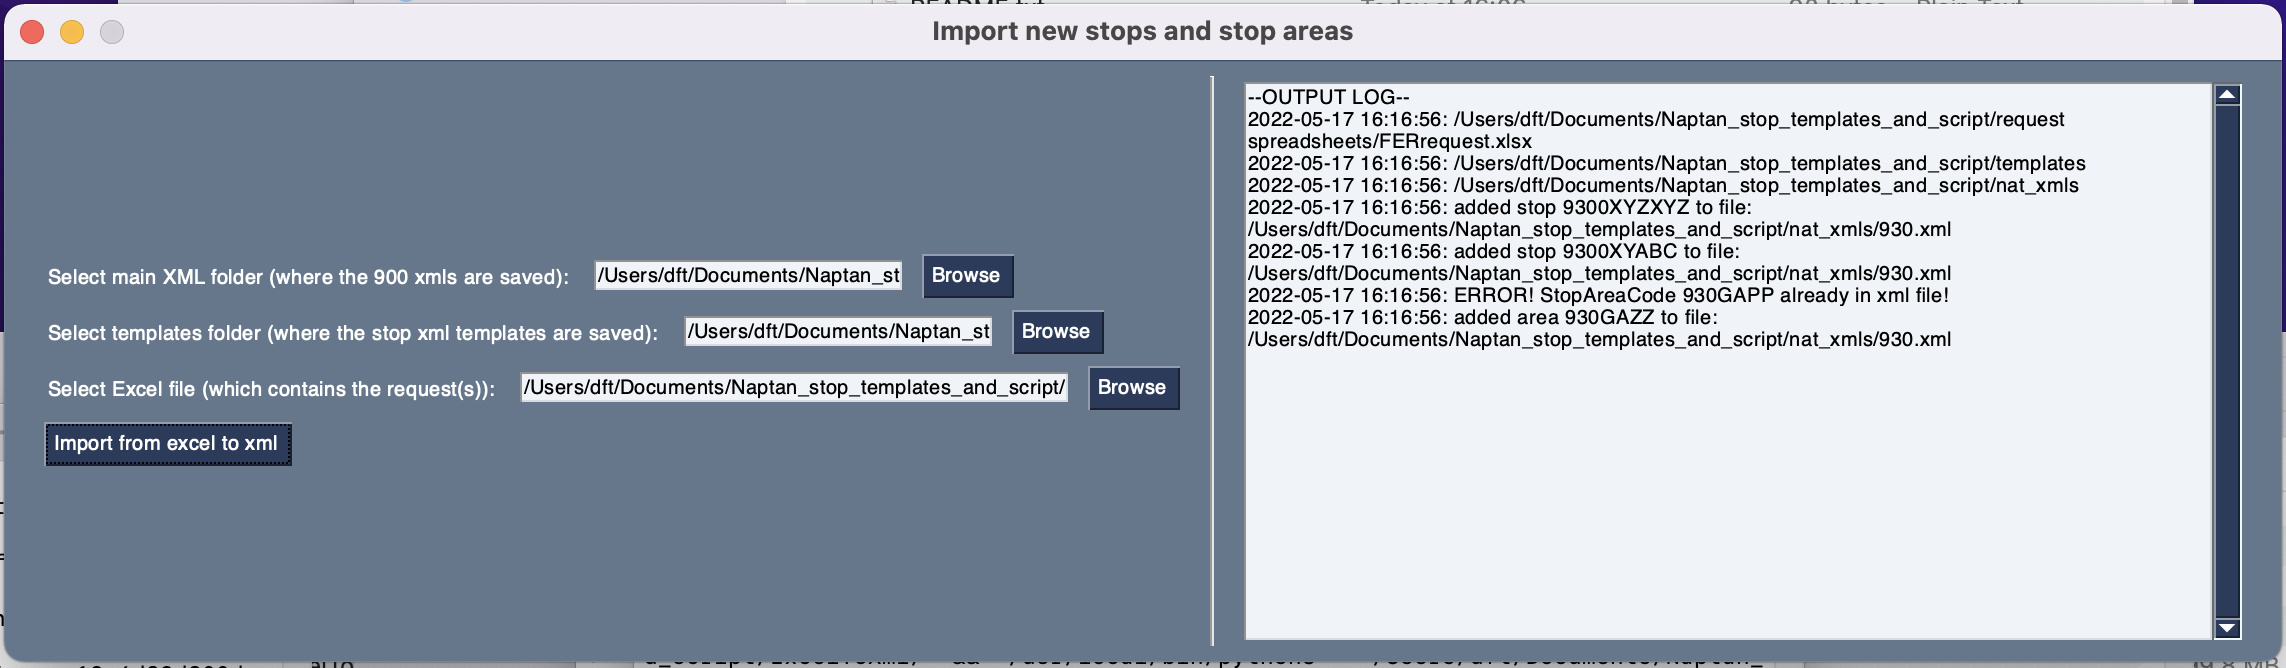
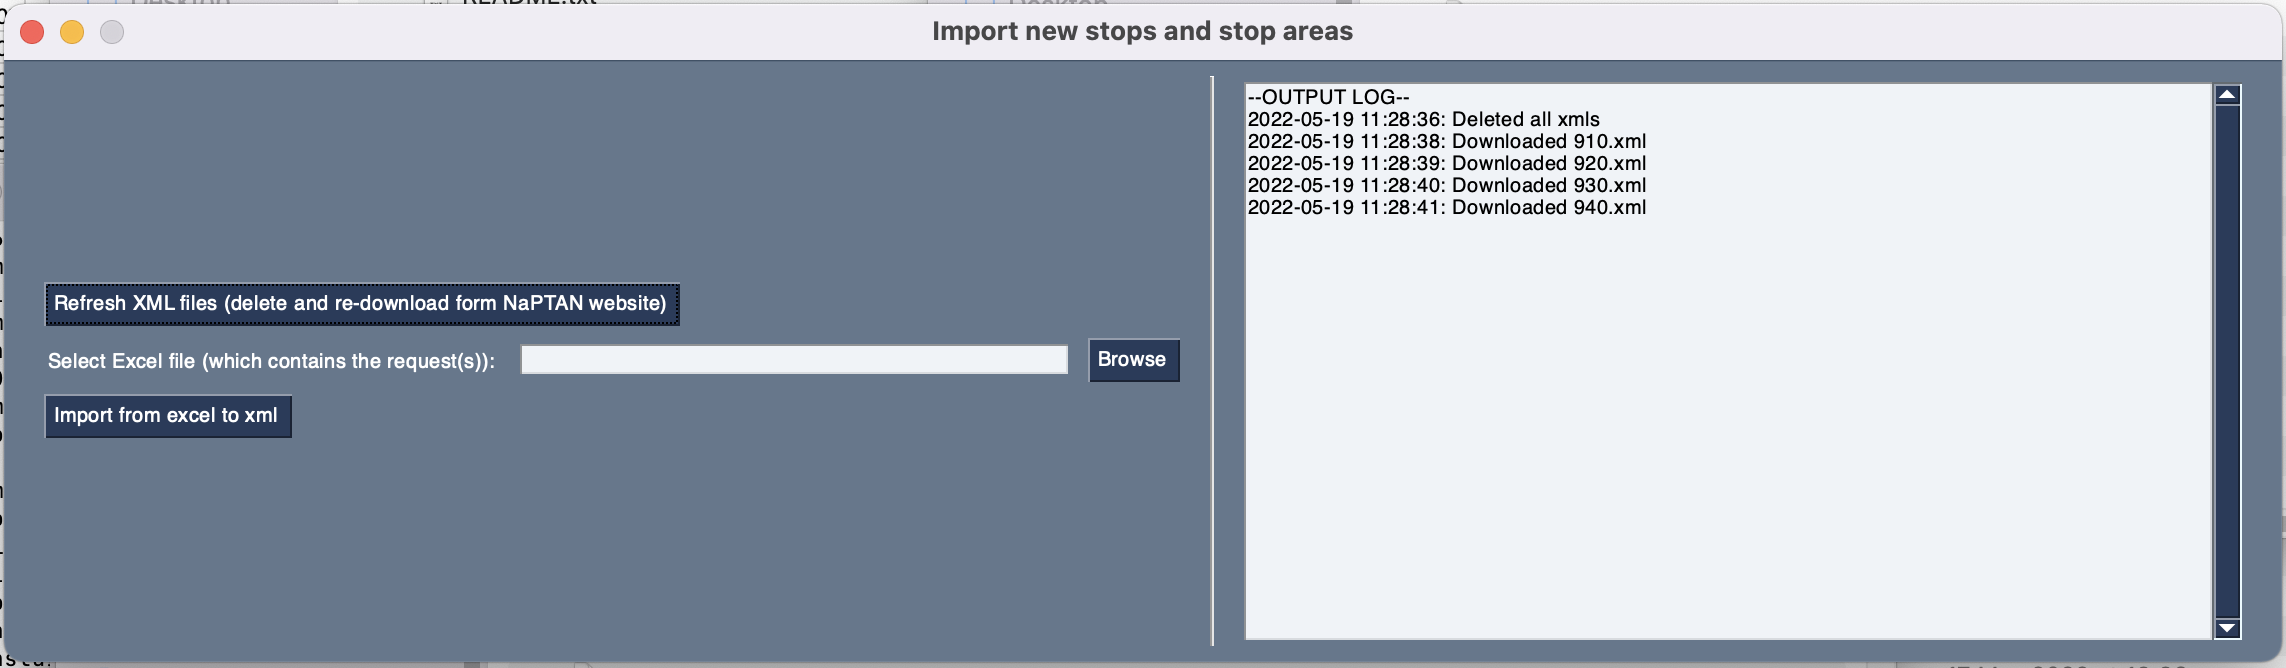
download xmls from NaPTAN website, no longer select folders

diff --git a/ExcelToXml.py b/ExcelToXml.py
@@ -2,6 +2,9 @@ import PySimpleGUI as PyGUI
 import time
 import pandas as pd
 import datetime
+import os
+import requests
+import shutil
 
 
 def text_from_xml(xml_fp):
@@ -47,6 +50,53 @@ def get_xl_df(spreadsheet_fp, sheet):
     return pd.read_excel(spreadsheet_fp, sheet_name=sheet)
 
 
+def download_xml_from_naptan(la_name: str, xml_name: str, down_dir="downloaded_xmls"):
+    """
+    Submit a post request and download a xml file from the NaPTAN beta website and save in the downloaded_xmls folder
+    :param la_name: properly formatted name of local authority as required by the website (from the drop down)
+    :param xml_name: the name that the xml file should be saved as
+    :param down_dir: directory where the files are to be saved
+    :return:
+    """
+    req_data = {
+        "selectedLasNames": la_name,
+        "fileTypeSelect": "xml"
+    }
+    response = requests.post('https://beta-naptan.dft.gov.uk/Download/MultipleLa', data=req_data)
+    data = response.content
+
+    with open(down_dir+"/"+xml_name, 'wb') as s:
+        s.write(data)
+
+
+def check_national_xmls(xmls_req: list, down_dir="downloaded_xmls"):
+    """
+    Check if all the required xml files are stored in the downloaded_xmls folder
+    :param xmls_req: list of strings of xmls file names required ie ['910.xml', '920.xml']
+    :param down_dir: directory where the files are
+    :return: True if all are there, otherwise true
+    """
+    try:
+        os.makedirs(down_dir)
+    except FileExistsError:
+        # directory already exists
+        pass
+    files_present = os.listdir(down_dir)
+    for xml_file in xmls_req:
+        if xml_file not in files_present:
+            return False
+    return True
+
+
+def delete_downloaded_xmls(down_dir="downloaded_xmls"):
+    """
+    delete all files saved in the downloaded_xmls folder
+    :return:
+    """
+    shutil.rmtree(down_dir)
+    os.makedirs(down_dir)
+
+
 # These are not xml items and therefore need to be added differently
 attribute_name_list = ['CreationDateTime', 'ModificationDateTime', 'Modification', 'RevisionNumber', 'Status']
 
@@ -59,17 +109,26 @@ def add_to_log(log_var, str_to_add):
     return log_var
 
 
+# the file names and local authority names of the cml files required
+xml_name_la_names = {"910.xml": "National - National Rail / Great Britain (910)",
+                     "920.xml": "National - National Air / Great Britain (920)",
+                     "930.xml": "National - National Ferry / Great Britain (930)",
+                     "940.xml": "National - National Tram / Great Britain (940)"}
+
+if not check_national_xmls(list(xml_name_la_names.keys())):
+    output_text_log = add_to_log(output_text_log, "Missing xmls found, downloading from NaPTAN website")
+    delete_downloaded_xmls()
+    for xml_name, la_name in xml_name_la_names.items():
+        download_xml_from_naptan(la_name, xml_name)
+        output_text_log = add_to_log(output_text_log, "Downloaded "+xml_name)
+
+
+dir_path = os.path.dirname(os.path.realpath(__file__))
+
 # First the window layout in 2 columns
 file_list_column = [
     [
-        PyGUI.Text("Select main XML folder (where the 900 xmls are saved):"),
-        PyGUI.In(size=(25, 1), enable_events=False, key="-MAIN FOLDER-"),
-        PyGUI.FolderBrowse(),
-    ],
-    [
-        PyGUI.Text("Select templates folder (where the stop xml templates are saved):"),
-        PyGUI.In(size=(25, 1), enable_events=False, key="-TEMPLATE FOLDER-"),
-        PyGUI.FolderBrowse(),
+        PyGUI.Button("Refresh XML files (delete and re-download form NaPTAN website)")
     ],
     [
         PyGUI.Text("Select Excel file (which contains the request(s)):"),
@@ -78,7 +137,7 @@ file_list_column = [
     ],
     [
         PyGUI.Button("Import from excel to xml")
-    ],
+    ]
 ]
 
 
@@ -102,6 +161,21 @@ while True:
     event, values = window.read()
     if event == "Exit" or event == PyGUI.WIN_CLOSED:
         break
+    elif event == "Refresh XML files (delete and re-download form NaPTAN website)":
+        try:
+            delete_downloaded_xmls()
+            output_text_log = add_to_log(output_text_log, "Deleted all xmls")
+            window['OUTPUT'].update(value=output_text_log)
+            for xml_name, la_name in xml_name_la_names.items():
+                download_xml_from_naptan(la_name, xml_name)
+                output_text_log = add_to_log(output_text_log, "Downloaded " + xml_name)
+                window['OUTPUT'].update(value=output_text_log)
+        except Exception as e:
+            output_text_log = add_to_log(output_text_log, "unexpected error when refreshing xmls")
+            window['OUTPUT'].update(value=output_text_log)
+            print(e)
+            pass
+
     elif event == "Import from excel to xml":  # A spreadsheet was chosen
         try:
             window['OUTPUT'].update(value=output_text_log)
@@ -170,7 +244,7 @@ while True:
             time.sleep(0.5)
 
         except Exception as e:
-            output_text_log = add_to_log(output_text_log, "unexpected error")
+            output_text_log = add_to_log(output_text_log, "unexpected error when importing spreadsheet")
             window['OUTPUT'].update(value=output_text_log)
             print(e)
             pass
